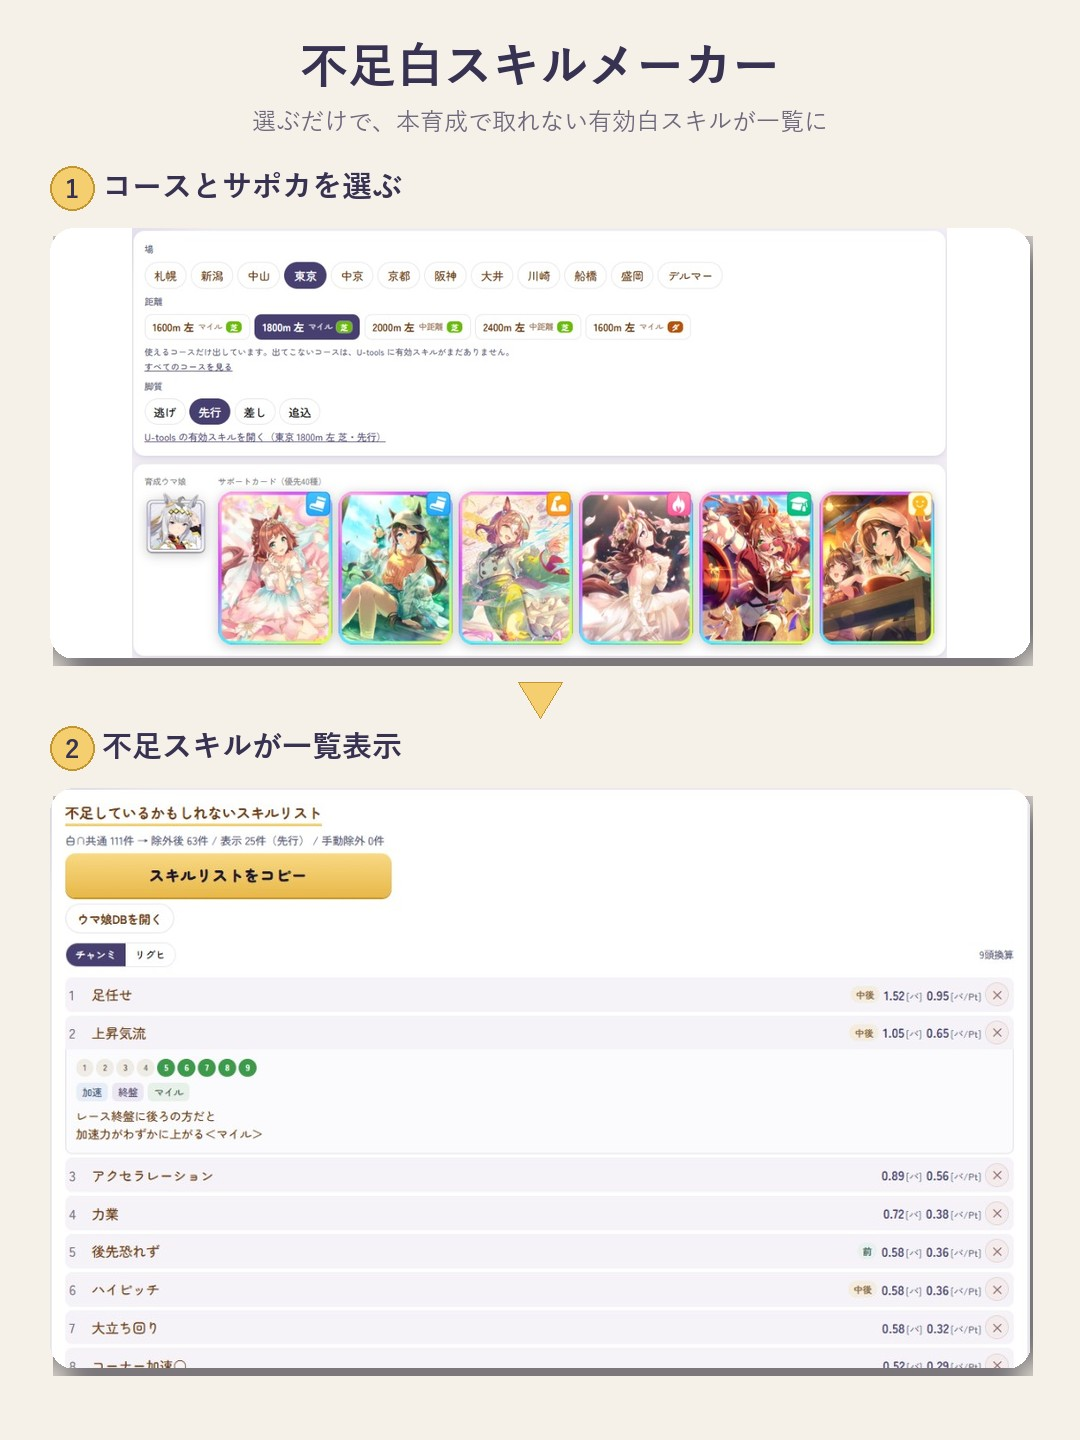
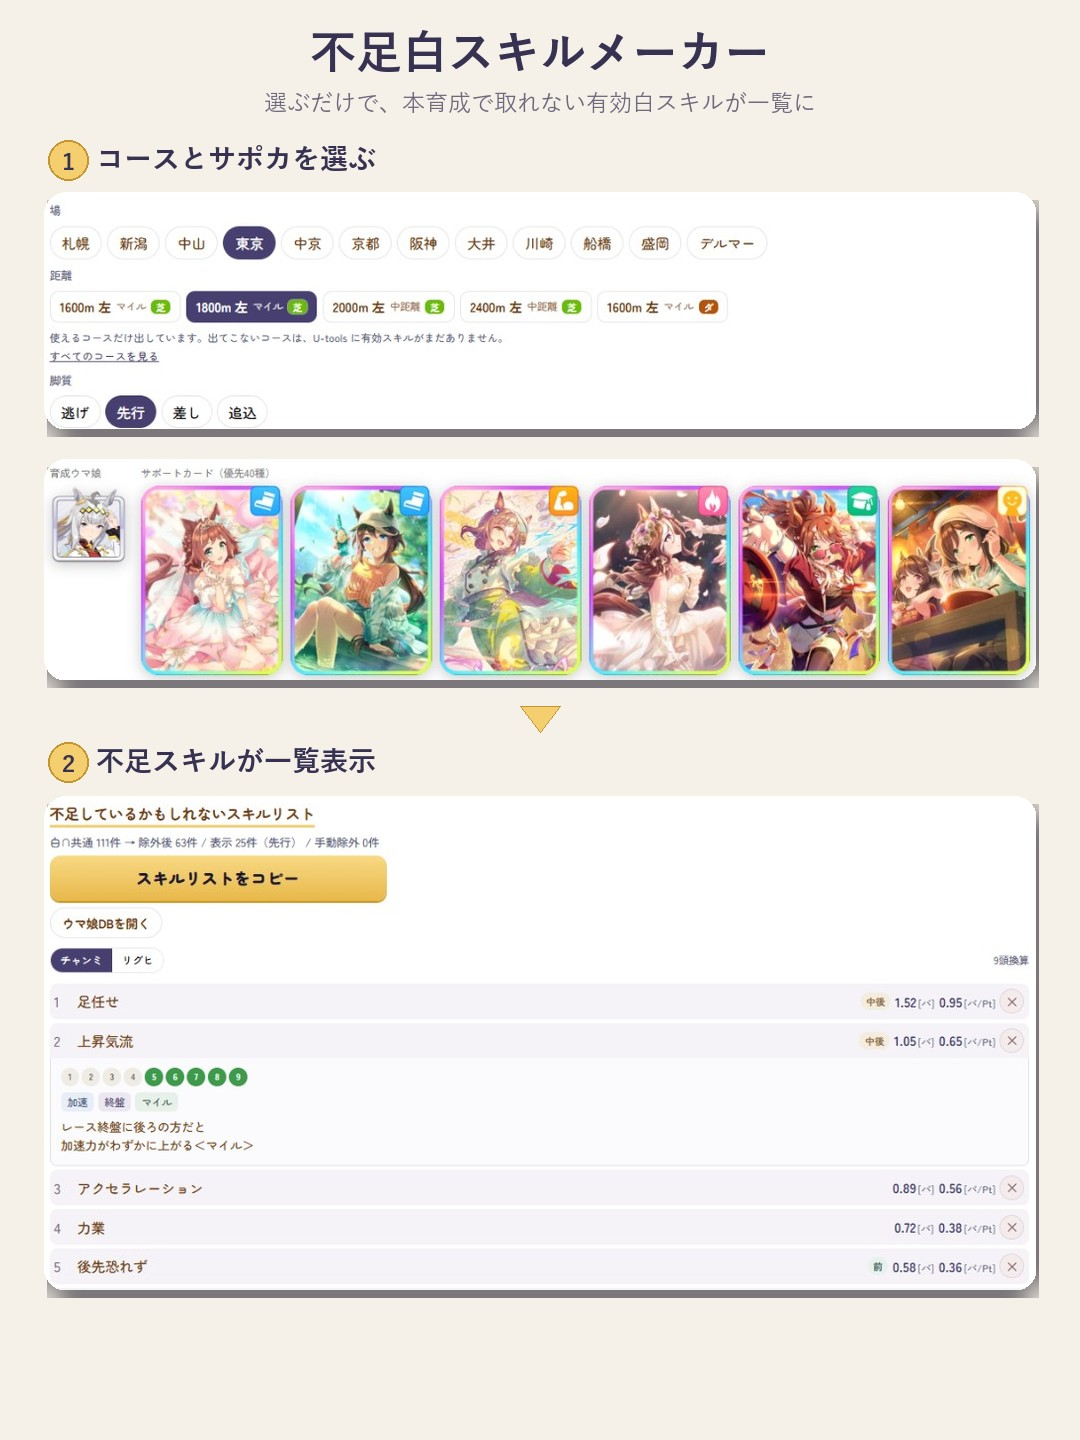
chore: 3x4投稿画像のスクショ余白を切り詰める

Changed region(s): [[0.0306, 0.0, 0.9778, 0.9688]]

diff --git a/scripts/compose_x_promo.py b/scripts/compose_x_promo.py
@@ -123,40 +123,73 @@ def compose_16x9():
     return canvas
 
 
+def scale_to_width(im, width):
+    """横幅に合わせて拡大縮小する（余白のレターボックスを付けない）。"""
+    w, h = im.size
+    nw = width
+    nh = max(1, round(h * (nw / w)))
+    return im.resize((nw, nh), Image.Resampling.LANCZOS)
+
+
+def crop_shot1_cards():
+    """コースパネルと編成パネルを別々に切り、隙間のページ余白を除く。"""
+    im = Image.open(SHOT1).convert("RGB")
+    # ページ端と U-tools リンク行を落とし、中身だけ残す
+    course = im.crop((10, 8, 1014, 248))
+    deck = im.crop((10, 304, 1014, 528))
+    return course, deck
+
+
+def crop_shot2_panel():
+    """結果パネルの左右余白を切り、コピーボタン〜リスト先頭を残す。"""
+    im = Image.open(SHOT2).convert("RGB")
+    return im.crop((10, 8, 1014, 508))
+
+
 def compose_3x4():
     W, H = 1080, 1440
     canvas = Image.new("RGB", (W, H), BG)
     draw = ImageDraw.Draw(canvas)
-    draw_center_text(draw, 40, "不足白スキルメーカー", font(FONT_B, 48), INK)
+    draw_center_text(draw, 28, "不足白スキルメーカー", font(FONT_B, 46), INK)
     draw_center_text(
         draw,
-        108,
+        90,
         "選ぶだけで、本育成で取れない有効白スキルが一覧に",
-        font(FONT_M, 24),
+        font(FONT_M, 23),
         MUTED,
     )
 
-    shot1 = Image.open(SHOT1)
-    shot2 = Image.open(SHOT2)
-    inner_w = 980
+    inner_w = 992
+    course, deck = crop_shot1_cards()
+    result = crop_shot2_panel()
 
-    gold_badge(draw, (72, 188), 1)
-    draw.text((102, 170), "コースとサポカを選ぶ", font=font(FONT_B, 30), fill=INK)
-    p1 = shadow_card(fit_contain(shot1, inner_w, 430), radius=24)
-    canvas.paste(p1, ((W - p1.size[0]) // 2, 210), p1)
+    gold_badge(draw, (68, 160), 1, r=20)
+    draw.text((96, 144), "コースとサポカを選ぶ", font=font(FONT_B, 28), fill=INK)
 
-    # 下向き矢印
-    ax, ay = W // 2, 690
+    y = 178
+    for piece, radius in ((course, 22), (deck, 22)):
+        card = shadow_card(scale_to_width(piece, inner_w), radius=radius, pad=14, blur=10)
+        canvas.paste(card, ((W - card.size[0]) // 2, y), card)
+        y += card.size[1] + 2
+
+    ax, ay = W // 2, y + 10
     draw.polygon(
-        [(ax - 22, ay - 8), (ax + 22, ay - 8), (ax, ay + 28)],
+        [(ax - 20, ay), (ax + 20, ay), (ax, ay + 26)],
         fill=GOLD,
         outline=GOLD_DEEP,
     )
 
-    gold_badge(draw, (72, 748), 2)
-    draw.text((102, 730), "不足スキルが一覧表示", font=font(FONT_B, 30), fill=INK)
-    p2 = shadow_card(fit_contain(shot2, inner_w, 580, crop_top=True), radius=24)
-    canvas.paste(p2, ((W - p2.size[0]) // 2, 770), p2)
+    y = ay + 40
+    gold_badge(draw, (68, y + 16), 2, r=20)
+    draw.text((96, y), "不足スキルが一覧表示", font=font(FONT_B, 28), fill=INK)
+    y += 36
+
+    remain = H - y - 18
+    result_scaled = scale_to_width(result, inner_w)
+    if result_scaled.size[1] > remain - 20:
+        result_scaled = result_scaled.crop((0, 0, inner_w, remain - 20))
+    card2 = shadow_card(result_scaled, radius=22, pad=14, blur=10)
+    canvas.paste(card2, ((W - card2.size[0]) // 2, y), card2)
     return canvas
 
 
